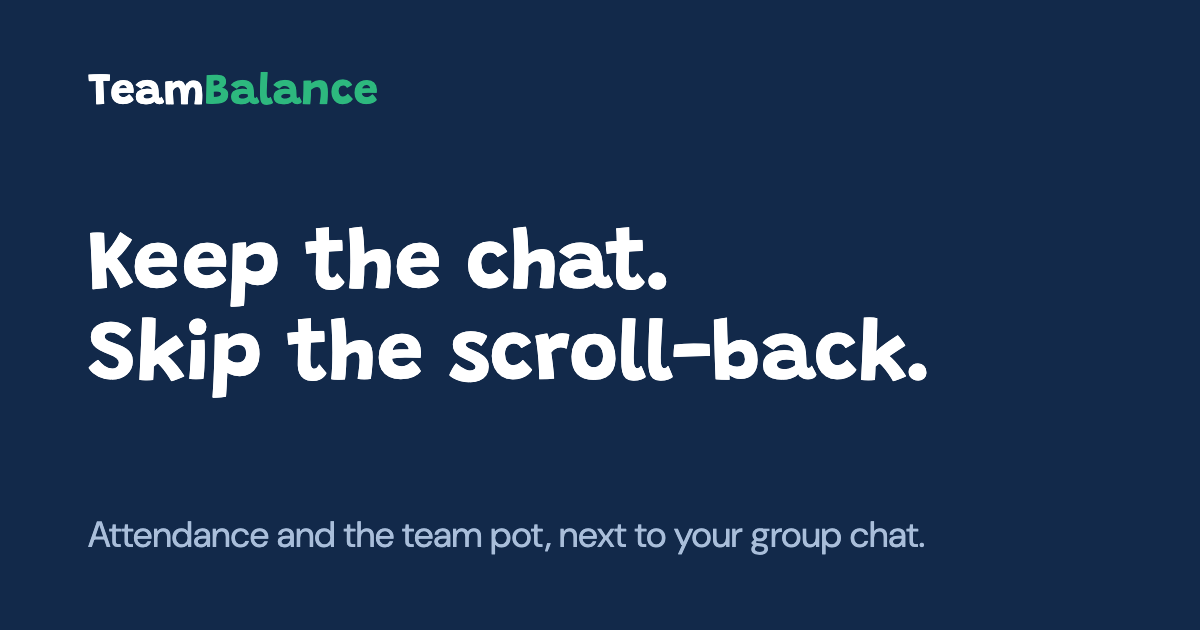
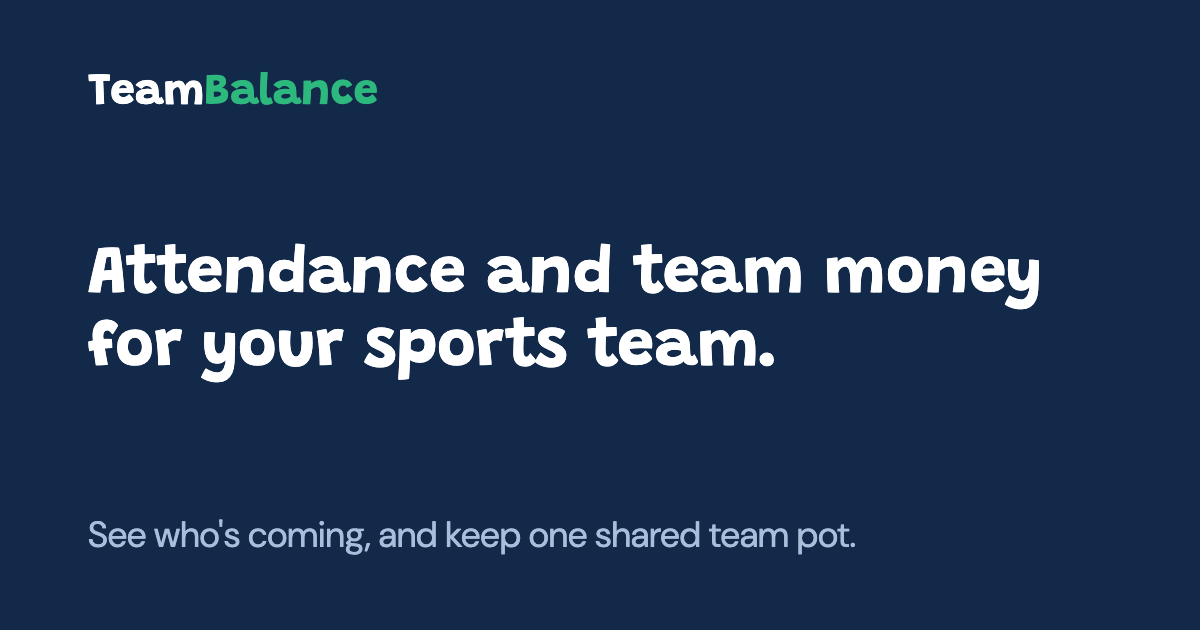
feat: landing hero says what TeamBalance is; demo first, sign-up moves into a How to start section
The H1 names the product (attendance and team money for your sports team). The
hero's main button is the demo team. The feature panels are grouped under who's
coming and team money. A 3-step How to start section (log in, request your team,
share the invite link) holds the only email form.

Changed region(s): [[0.0617, 0.3619, 0.8633, 0.6333], [0.0617, 0.8143, 0.7708, 0.8746]]

diff --git a/www/template.html b/www/template.html
@@ -43,22 +43,14 @@
           <div class="hook">
             <h1>{{heroTitle}}</h1>
             <p class="sub">{{heroSub}}</p>
-
-            <form class="request" method="post" novalidate data-request>
-              <label class="sr-only" for="email-hero">{{emailLabel}}</label>
-              <div class="row">
-                <input id="email-hero" aria-describedby="hint-hero msg-hero" type="email" name="email" placeholder="{{emailPlaceholder}}" autocomplete="email" inputmode="email" />
-                <button class="btn btn-primary" type="submit">{{formButton}}</button>
-              </div>
-              <p class="form-hint" id="hint-hero">{{formHint}}</p>
-              <p class="form-msg" id="msg-hero" role="status" aria-live="polite"></p>
-              <div class="alt">
-                <a class="btn btn-ghost" href="https://demo.teambalance.nl/">{{demoButton}}</a>
-              </div>
-            </form>
+            <div class="cta">
+              <a class="btn btn-primary" href="https://demo.teambalance.nl/">{{demoButton}}</a>
+              <a class="linkbtn" href="#start">{{howToStart}}</a>
+            </div>
           </div>
 
-          <div class="scene" id="scene">
+          <div class="scene" id="scene" role="group" aria-labelledby="sceneCaption">
+            <p class="scene-caption" id="sceneCaption">{{sceneCaption}}</p>
             <div class="chat-head">
               <div class="chat-title">{{chatTitle}}<small>{{chatSub}}</small></div>
               <span class="unread" id="unread">{{unread}}</span>
@@ -140,8 +132,9 @@
           <p>{{introText}}</p>
         </section>
 
+        <h2 class="group-title">{{groupWhoTitle}}</h2>
         <article class="pair">
-          <div class="ask"><span class="bubble">{{askWho}}</span><small>{{noScroll}}</small></div>
+          <div class="ask"><span class="bubble">{{askWho}}</span></div>
           <div class="arrow" aria-hidden="true"><svg width="40" height="24" viewBox="0 0 40 24" fill="none" stroke="currentColor" stroke-width="2" stroke-linecap="round" stroke-linejoin="round"><path d="M4 12h30M26 4l8 8-8 8" /></svg></div>
           <div class="answer">
             <h3>{{rosterTitle}}</h3>
@@ -158,8 +151,23 @@
           </div>
         </article>
 
+        <div class="smalls">
+          <section>
+            <p class="struck">{{askShort}}</p>
+            <h3>{{subTitle}}</h3>
+            <p>{{subText}}</p>
+          </section>
+          <section>
+            <p class="struck">{{askTime}}</p>
+            <h3>{{calTitle}}</h3>
+            <p>{{calText}}</p>
+            <p class="fake-field"><svg width="20" height="20" viewBox="0 0 24 24" fill="none" stroke="currentColor" stroke-width="2" stroke-linecap="round" stroke-linejoin="round" aria-hidden="true"><rect x="3.5" y="5" width="17" height="15" rx="2.5" /><path d="M3.5 10h17M8 3v4M16 3v4" /></svg>{{calField}}</p>
+          </section>
+        </div>
+
+        <h2 class="group-title">{{groupMoneyTitle}}</h2>
         <article class="pot-panel">
-          <div class="pot-asks"><span class="bubble">{{askOwe}}</span><span class="bubble">{{askTikkie}}</span><small>{{noScroll}}</small></div>
+          <div class="pot-asks"><span class="bubble">{{askOwe}}</span><span class="bubble">{{askTikkie}}</span></div>
           <figure class="pot">
             <svg viewBox="0 0 260 190" role="img" aria-label="{{potAlt}}">
               <ellipse class="pt-sh" cx="130" cy="176" rx="96" ry="9" />
@@ -186,44 +194,37 @@
           </div>
         </article>
 
-        <div class="smalls">
-          <section>
-            <p class="struck">{{askTime}}</p>
-            <h3>{{calTitle}}</h3>
-            <p>{{calText}}</p>
-            <p class="fake-field"><svg width="20" height="20" viewBox="0 0 24 24" fill="none" stroke="currentColor" stroke-width="2" stroke-linecap="round" stroke-linejoin="round" aria-hidden="true"><rect x="3.5" y="5" width="17" height="15" rx="2.5" /><path d="M3.5 10h17M8 3v4M16 3v4" /></svg>{{calField}}</p>
-          </section>
-          <section>
-            <p class="struck">{{askAdd}}</p>
-            <h3>{{inviteTitle}}</h3>
-            <p>{{inviteText}}</p>
-            <p class="fake-field"><svg width="20" height="20" viewBox="0 0 24 24" fill="none" stroke="currentColor" stroke-width="2" stroke-linecap="round" stroke-linejoin="round" aria-hidden="true"><path d="M10 14a4 4 0 0 0 5.7 0l3-3a4 4 0 0 0-5.7-5.7l-1 1" /><path d="M14 10a4 4 0 0 0-5.7 0l-3 3A4 4 0 0 0 11 18.7l1-1" /></svg>{{inviteField}}</p>
-          </section>
-          <section>
-            <p class="struck">{{askShort}}</p>
-            <h3>{{subTitle}}</h3>
-            <p>{{subText}}</p>
-          </section>
-        </div>
+        <section class="start" id="start" aria-labelledby="start-title">
+          <h2 id="start-title">{{startTitle}}</h2>
+          <p class="sub">{{startInvited}}</p>
+          <ol class="steps">
+            <li>
+              <h3>{{step1Title}}</h3>
+              <p id="step1-text">{{step1Text}}</p>
+              <form class="request" method="post" novalidate data-request>
+                <label class="sr-only" for="email">{{emailLabel}}</label>
+                <div class="row">
+                  <input id="email" aria-describedby="step1-text email-msg" type="email" name="email" placeholder="{{emailPlaceholder}}" autocomplete="email" inputmode="email" />
+                  <button class="btn btn-primary" type="submit">{{formButton}}</button>
+                </div>
+                <p class="form-msg" id="email-msg" role="status" aria-live="polite"></p>
+              </form>
+            </li>
+            <li>
+              <h3>{{step2Title}}</h3>
+              <p>{{step2Text}}</p>
+            </li>
+            <li>
+              <h3>{{step3Title}}</h3>
+              <p>{{step3Text}}</p>
+              <p class="fake-field"><svg width="20" height="20" viewBox="0 0 24 24" fill="none" stroke="currentColor" stroke-width="2" stroke-linecap="round" stroke-linejoin="round" aria-hidden="true"><path d="M10 14a4 4 0 0 0 5.7 0l3-3a4 4 0 0 0-5.7-5.7l-1 1" /><path d="M14 10a4 4 0 0 0-5.7 0l-3 3A4 4 0 0 0 11 18.7l1-1" /></svg>{{inviteField}}</p>
+            </li>
+          </ol>
+        </section>
 
         <section class="origin">
           <h2>{{originTitle}}</h2>
           <p>{{originText}}</p>
-        </section>
-
-        <section class="closing">
-          <h2>{{closeTitle}}</h2>
-          <p class="sub">{{closeSub}}</p>
-          <form class="request" method="post" novalidate data-request>
-            <label class="sr-only" for="email-close">{{emailLabel}}</label>
-            <div class="row">
-              <input id="email-close" aria-describedby="hint-close msg-close" type="email" name="email" placeholder="{{emailPlaceholder}}" autocomplete="email" inputmode="email" />
-              <button class="btn btn-primary" type="submit">{{formButton}}</button>
-            </div>
-            <p class="form-hint" id="hint-close">{{formHint}}</p>
-            <p class="form-msg" id="msg-close" role="status" aria-live="polite"></p>
-            <div class="alt"><a class="btn btn-ghost" href="https://demo.teambalance.nl/">{{demoButton}}</a></div>
-          </form>
         </section>
       </div>
 

diff --git a/www/style.css b/www/style.css
@@ -177,9 +177,18 @@ a {
   max-width: 42ch;
 }
 
-/* sign-in form, used twice */
-.request {
+/* hero actions: demo first, then a link to the steps */
+.cta {
   margin-top: 24px;
+  display: flex;
+  flex-wrap: wrap;
+  align-items: center;
+  gap: 8px 20px;
+}
+
+/* sign-in form, in step 1 of How to start */
+.request {
+  margin-top: 16px;
   max-width: 480px;
 }
 .request .row {
@@ -205,11 +214,6 @@ a {
 }
 .request input:hover {
   border-color: #b8c7dc;
-}
-.form-hint {
-  margin-top: 10px;
-  font-size: 0.9375rem;
-  color: var(--dusk-soft);
 }
 .form-msg {
   margin-top: 8px;
@@ -258,9 +262,6 @@ a {
   background: rgba(255, 255, 255, 0.08);
   border-color: #fff;
 }
-.request .alt {
-  margin-top: 14px;
-}
 
 /* ---------- the scene: chat + event card ---------- */
 .scene {
@@ -272,6 +273,11 @@ a {
   width: 100%;
   max-width: 440px;
   justify-self: center;
+}
+.scene-caption {
+  padding: 4px 6px 12px;
+  font-size: 0.9375rem;
+  color: var(--dusk-text);
 }
 .chat-head {
   display: flex;
@@ -509,6 +515,8 @@ a {
   min-height: 1.35em;
 }
 .linkbtn {
+  display: inline-flex;
+  align-items: center;
   background: none;
   border: 0;
   padding: 0 4px;
@@ -545,7 +553,7 @@ a {
   padding-top: 64px;
 }
 .intro h2,
-.closing h2 {
+.start h2 {
   font-family: var(--font-display);
   font-weight: 800;
   font-size: clamp(2rem, 6vw, 3.25rem);
@@ -591,12 +599,6 @@ h3 {
 }
 .struck {
   display: inline-block;
-}
-.ask small,
-.pot-asks small {
-  font-size: 0.8125rem;
-  color: var(--ink-soft);
-  margin-left: 6px;
 }
 
 /* roster: white card, ask on the left on wide screens */
@@ -668,7 +670,7 @@ h3 {
 
 /* pot: tinted panel, drawn pot beside the text */
 .pot-panel {
-  margin-top: 72px;
+  margin-top: 36px;
   display: grid;
   gap: 20px;
   padding: 24px 20px;
@@ -755,9 +757,9 @@ h3 {
   font-size: 0.9375rem;
 }
 
-/* three small answers: no boxes, separated by rules */
+/* two small answers: no boxes, separated by rules */
 .smalls {
-  margin-top: 72px;
+  margin-top: 48px;
   display: grid;
 }
 .smalls > section {
@@ -788,10 +790,14 @@ h3 {
   flex: none;
 }
 
-.origin {
+.group-title {
   padding-top: 72px;
+}
+.origin {
+  padding: 72px 0;
   max-width: 62ch;
 }
+.group-title,
 .origin h2 {
   font-family: var(--font-display);
   font-weight: 800;
@@ -804,49 +810,76 @@ h3 {
   color: var(--ink-soft);
 }
 
-.closing {
-  padding: 88px 0 72px;
-  max-width: 520px;
+.start {
+  padding-top: 88px;
+  max-width: 640px;
+  scroll-margin-top: 16px;
 }
-.closing .sub {
+.start .sub {
   margin-top: 12px;
   color: var(--ink-soft);
 }
-.closing .request input[type='email'] {
+.steps {
+  list-style: none;
+  counter-reset: step;
+  margin: 28px 0 0;
+  padding: 0;
+  display: grid;
+  gap: 28px;
+}
+.steps > li {
+  counter-increment: step;
+  display: grid;
+  grid-template-columns: 40px minmax(0, 1fr);
+  column-gap: 14px;
+}
+.steps > li::before {
+  content: counter(step);
+  grid-row: span 4;
+  width: 36px;
+  height: 36px;
+  border-radius: 50%;
+  display: grid;
+  place-items: center;
+  background: var(--color-blue);
+  color: #fff;
+  font-family: var(--font-display);
+  font-weight: 700;
+}
+.steps > li > * {
+  grid-column: 2;
+}
+.steps h3 {
+  padding-top: 4px;
+}
+.steps p:not(.fake-field, .form-msg) {
+  margin-top: 6px;
+  color: var(--ink-soft);
+}
+.start .request input[type='email'] {
   background: #fff;
   border-color: #94a3b8;
 }
-.closing .request input:hover {
+.start .request input:hover {
   border-color: var(--color-blue);
 }
-.closing .request input[aria-invalid='true'] {
+.start .request input[aria-invalid='true'] {
   border-color: #b3261e;
 }
-.closing .btn-primary {
+.start .btn-primary {
   background: var(--color-blue);
   color: #fff;
 }
-.closing .btn-primary:hover {
+.start .btn-primary:hover {
   background: var(--color-blue-dark);
 }
-.closing .btn-ghost {
-  color: var(--color-blue-dark);
-  border-color: #6d8aae;
-}
-.closing .btn-ghost:hover {
-  background: rgba(34, 92, 156, 0.08);
-  border-color: var(--color-blue);
-}
-.closing .form-hint {
-  color: var(--ink-soft);
-}
-.closing .form-msg.err {
+.start .form-msg.err {
   color: #b3261e;
 }
-.closing .form-msg.ok {
+.start .form-msg.ok {
   color: #176b49;
 }
-.closing :focus-visible,
+.start :focus-visible,
 .calm :focus-visible {
   outline-color: var(--color-blue);
 }
@@ -950,7 +983,7 @@ footer {
     grid-area: body;
   }
   .smalls {
-    grid-template-columns: repeat(3, 1fr);
+    grid-template-columns: repeat(2, 1fr);
     column-gap: 40px;
   }
 }
